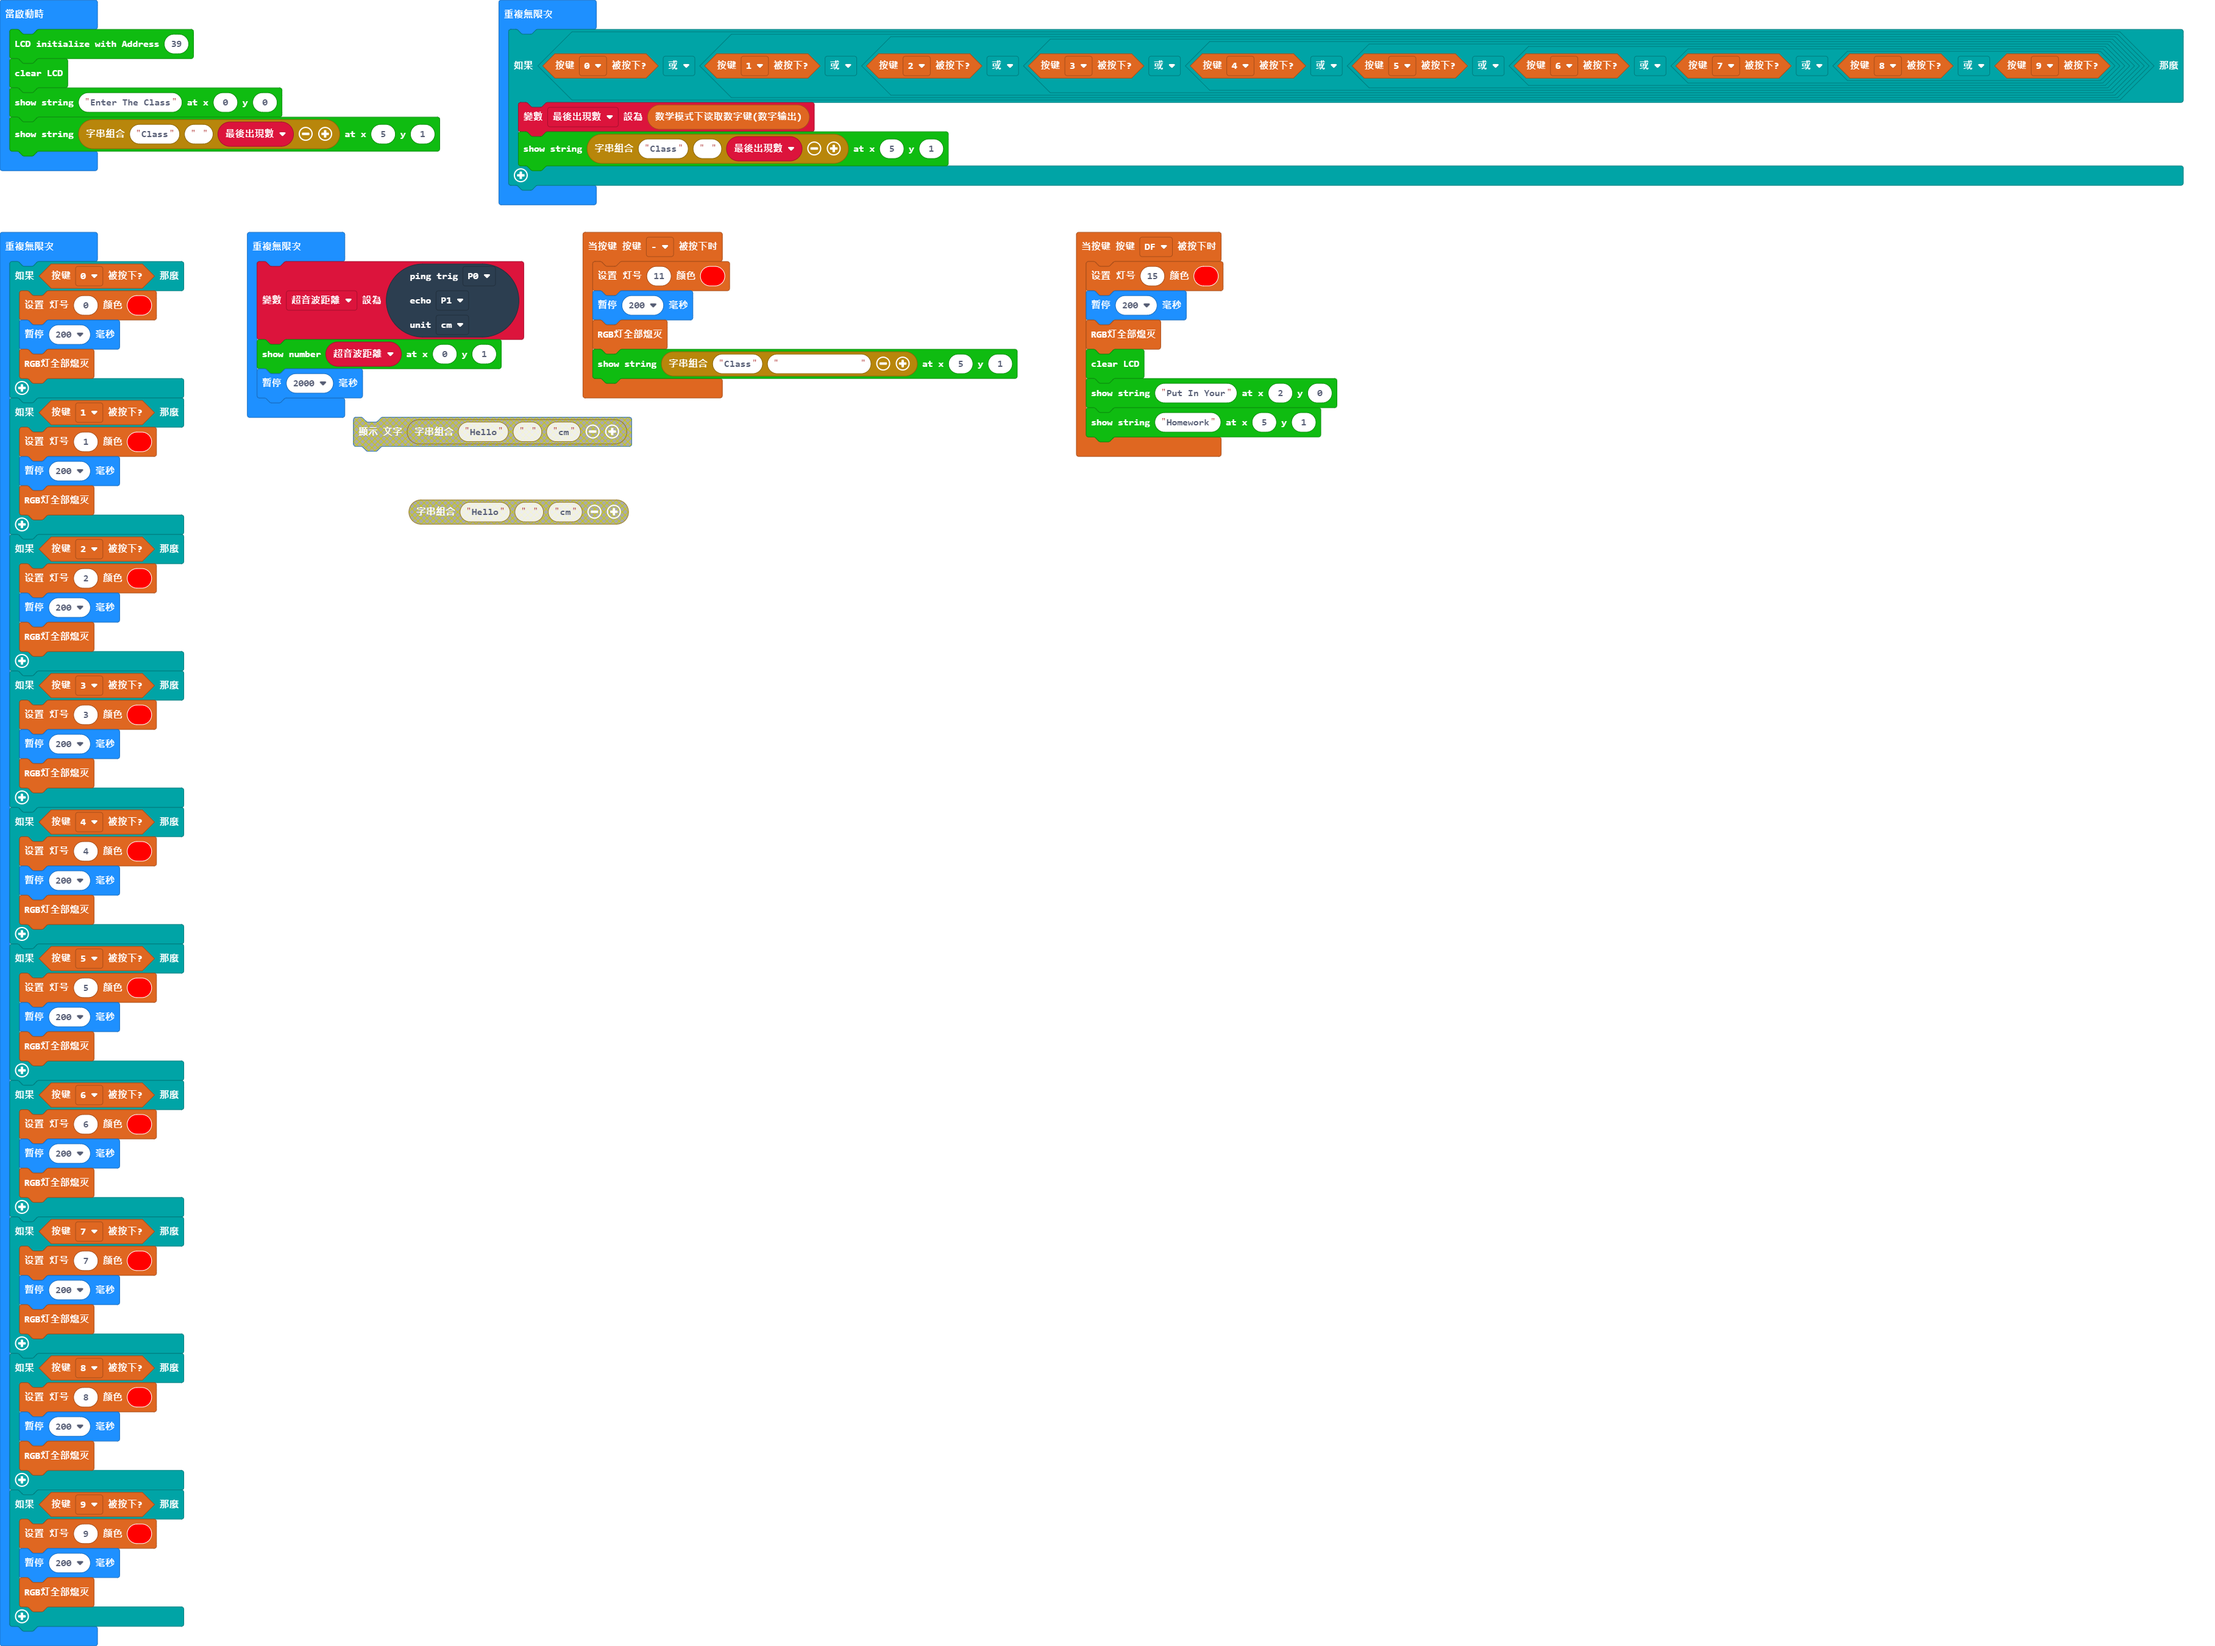
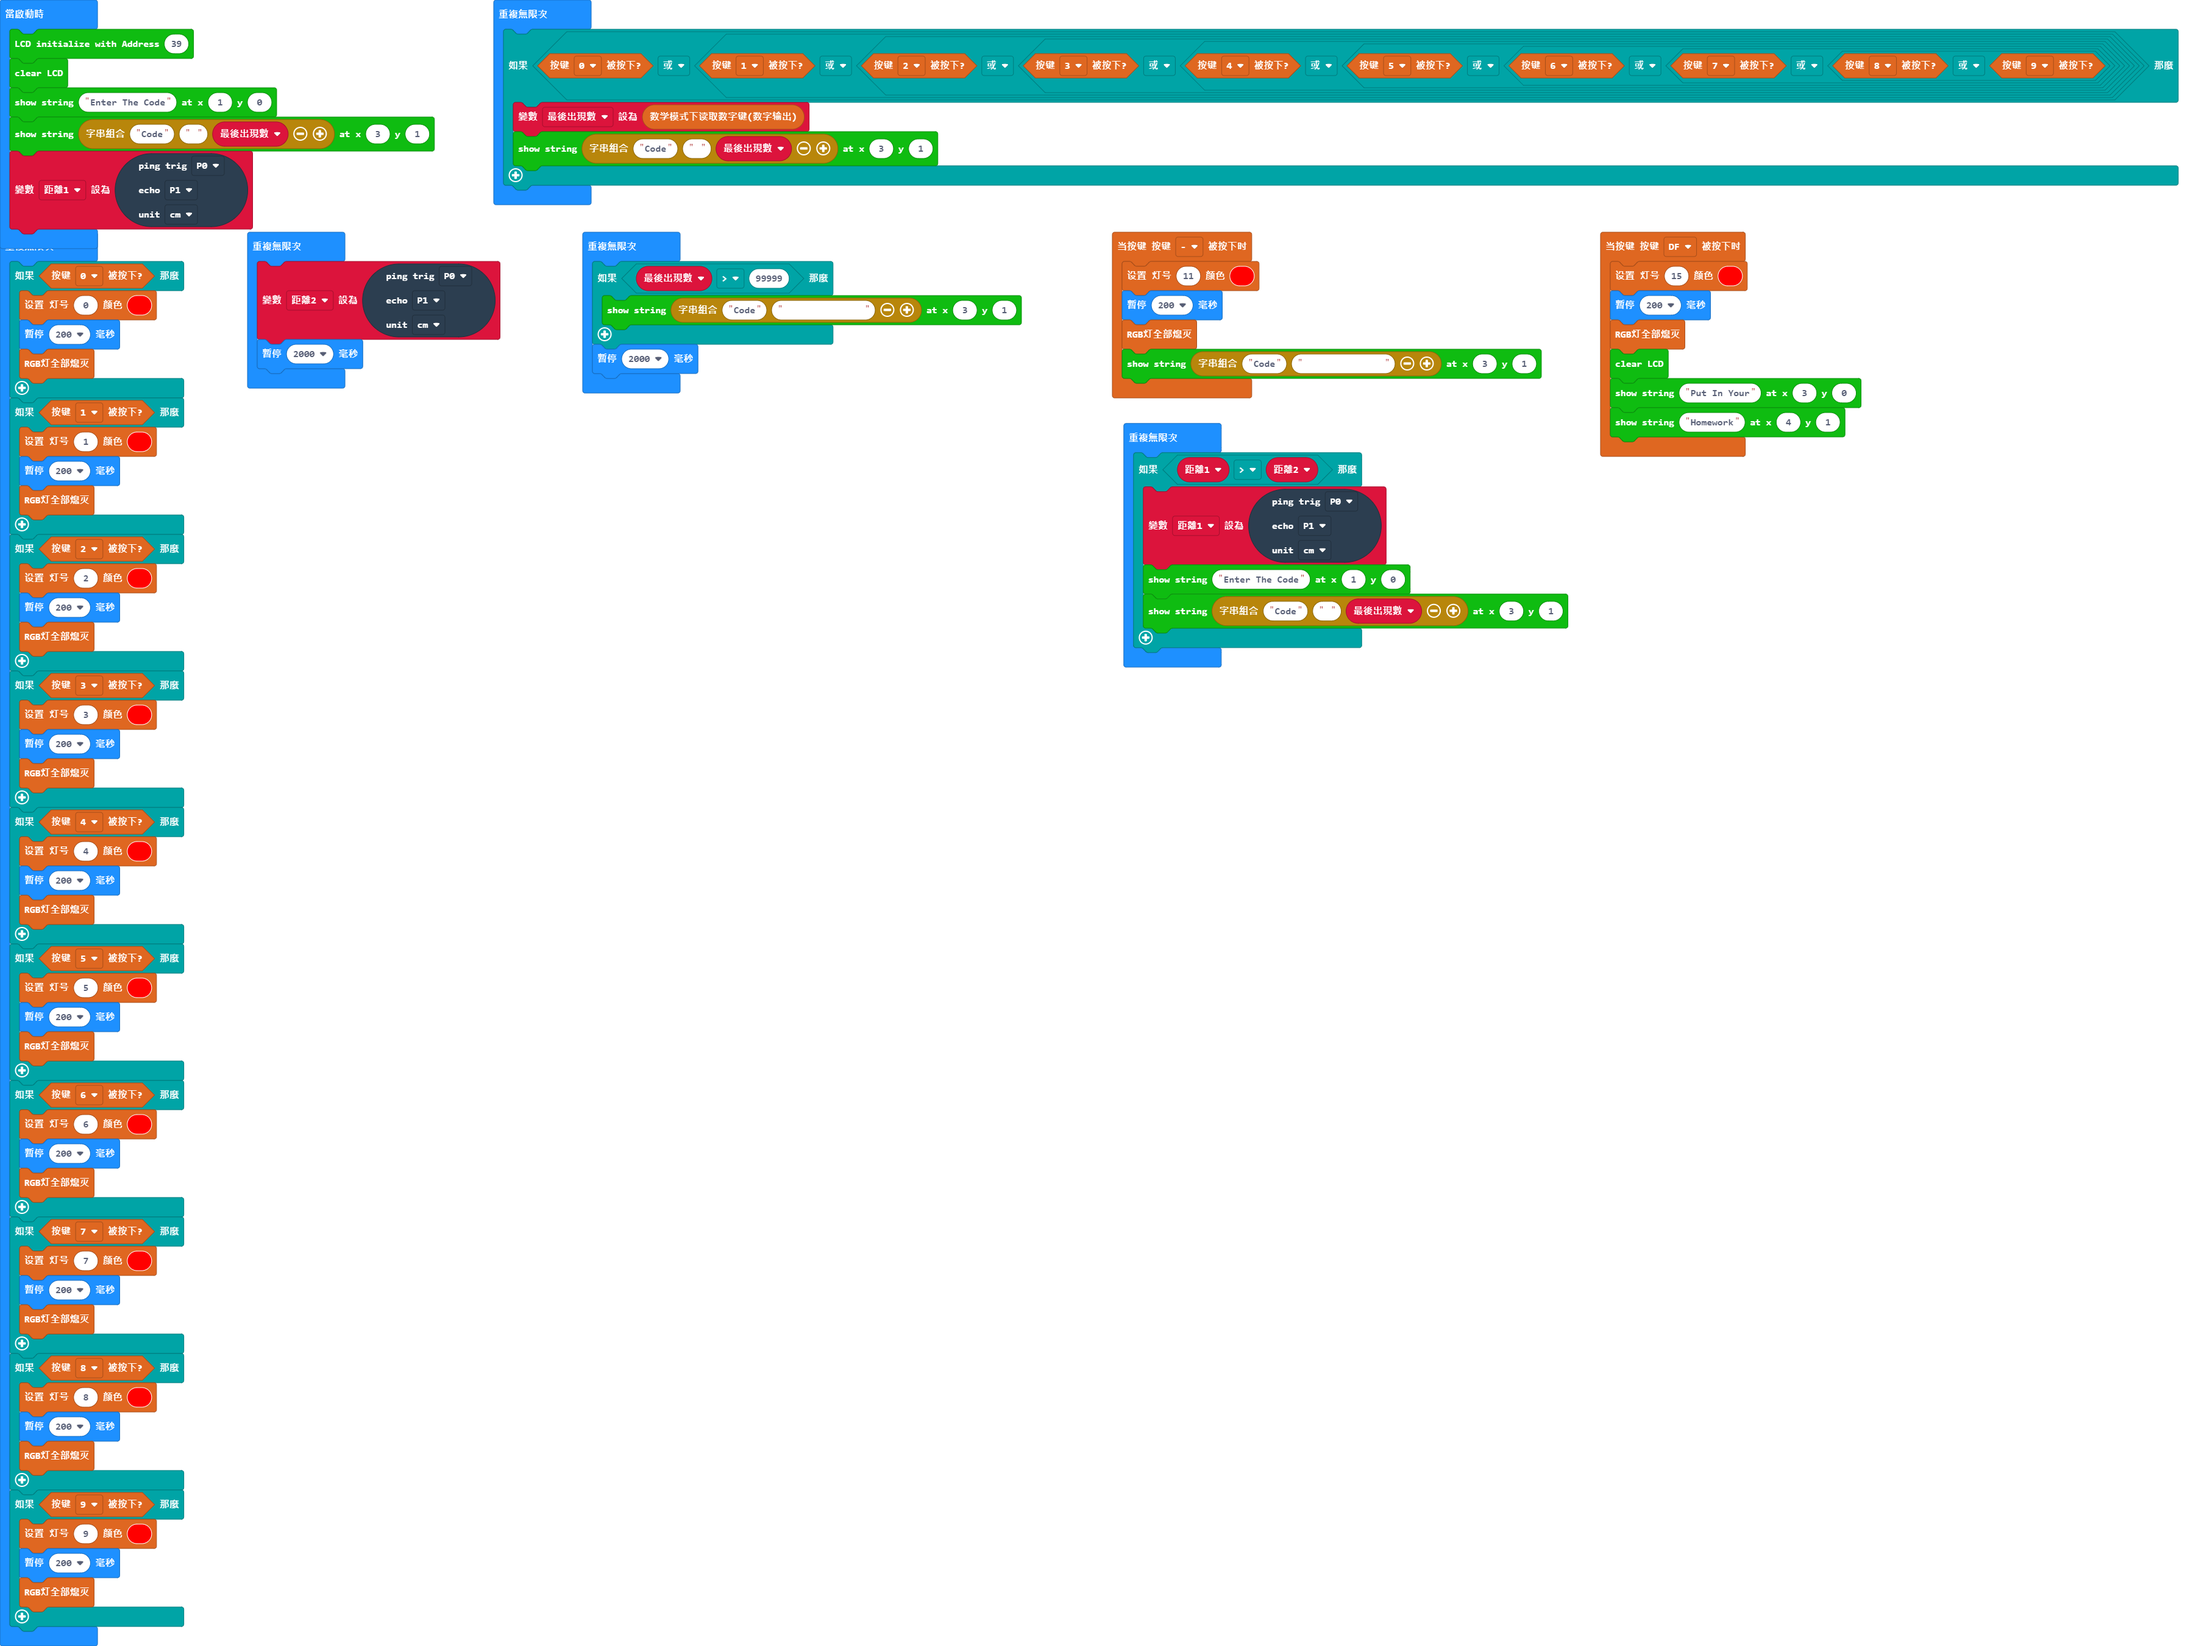
更新 main.blocks, main.ts

diff --git a/main.ts b/main.ts
@@ -2,26 +2,31 @@ keyboard.kbEvent(KeyValue.keyminus, function () {
     keyboard.setIndexColor(11, 0xff0000)
     basic.pause(200)
     keyboard.ledBlank()
-    I2C_LCD1602.ShowString("Class" + "               ", 5, 1)
+    I2C_LCD1602.ShowString("Code" + "               ", 3, 1)
 })
 keyboard.kbEvent(KeyValue.keydf, function () {
     keyboard.setIndexColor(15, 0xff0000)
     basic.pause(200)
     keyboard.ledBlank()
     I2C_LCD1602.clear()
-    I2C_LCD1602.ShowString("Put In Your", 2, 0)
-    I2C_LCD1602.ShowString("Homework", 5, 1)
+    I2C_LCD1602.ShowString("Put In Your", 3, 0)
+    I2C_LCD1602.ShowString("Homework", 4, 1)
 })
-let 超音波距離 = 0
+let 距離2 = 0
 let 最後出現數 = 0
 I2C_LCD1602.LcdInit(39)
 I2C_LCD1602.clear()
-I2C_LCD1602.ShowString("Enter The Class", 0, 0)
-I2C_LCD1602.ShowString("Class" + " " + 最後出現數, 5, 1)
+I2C_LCD1602.ShowString("Enter The Code", 1, 0)
+I2C_LCD1602.ShowString("Code" + " " + 最後出現數, 3, 1)
+let 距離1 = sonar.ping(
+DigitalPin.P0,
+DigitalPin.P1,
+PingUnit.Centimeters
+)
 basic.forever(function () {
     if (keyboard.keyPressed(KeyValue.key0) || (keyboard.keyPressed(KeyValue.key1) || (keyboard.keyPressed(KeyValue.key2) || (keyboard.keyPressed(KeyValue.key3) || (keyboard.keyPressed(KeyValue.key4) || (keyboard.keyPressed(KeyValue.key5) || (keyboard.keyPressed(KeyValue.key6) || (keyboard.keyPressed(KeyValue.key7) || (keyboard.keyPressed(KeyValue.key8) || keyboard.keyPressed(KeyValue.key9)))))))))) {
         最後出現數 = keyboard.keyMathNumber()
-        I2C_LCD1602.ShowString("Class" + " " + 最後出現數, 5, 1)
+        I2C_LCD1602.ShowString("Code" + " " + 最後出現數, 3, 1)
     }
 })
 basic.forever(function () {
@@ -77,11 +82,27 @@ basic.forever(function () {
     }
 })
 basic.forever(function () {
-    超音波距離 = sonar.ping(
+    距離2 = sonar.ping(
     DigitalPin.P0,
     DigitalPin.P1,
     PingUnit.Centimeters
     )
-    I2C_LCD1602.ShowNumber(超音波距離, 0, 1)
     basic.pause(2000)
+})
+basic.forever(function () {
+    if (最後出現數 > 99999) {
+        I2C_LCD1602.ShowString("Code" + "               ", 3, 1)
+    }
+    basic.pause(2000)
+})
+basic.forever(function () {
+    if (距離1 > 距離2) {
+        距離1 = sonar.ping(
+        DigitalPin.P0,
+        DigitalPin.P1,
+        PingUnit.Centimeters
+        )
+        I2C_LCD1602.ShowString("Enter The Code", 1, 0)
+        I2C_LCD1602.ShowString("Code" + " " + 最後出現數, 3, 1)
+    }
 })
